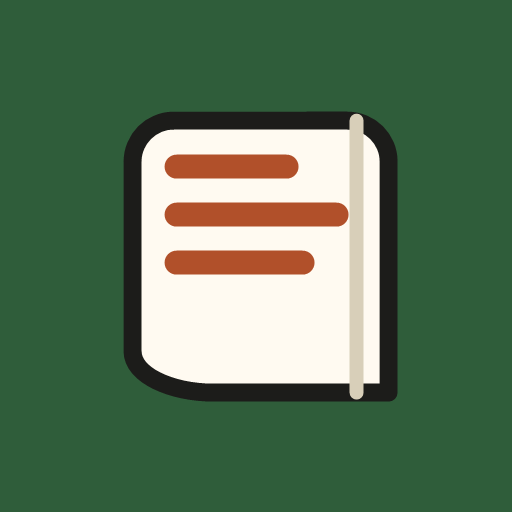
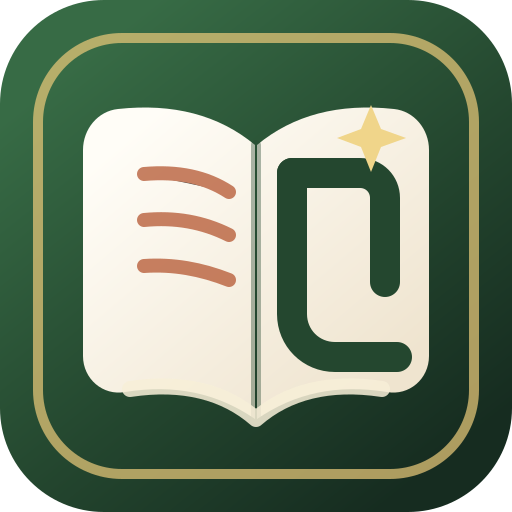
Rename app to Lexiora

diff --git a/src/spanish-book.jsx b/src/spanish-book.jsx
@@ -8341,7 +8341,7 @@ function HomeView({
           <GraduationCap size={18} />
           Plan de estudio
         </div>
-        <h1 className="home-title">Learn Spanish</h1>
+        <h1 className="home-title">Lexiora</h1>
         <p className="home-subtitle">
           Hoy: una leccion clara, 10 palabras, lectura en voz alta, Memoria, y una frase escrita.
         </p>
@@ -9142,7 +9142,7 @@ export default function SpanishBook() {
 
   function buildSyncPayload() {
     return {
-      app: 'Learn Spanish',
+      app: 'Lexiora',
       version: 2,
       exportedAt: new Date().toISOString(),
       savedWords,
@@ -9351,7 +9351,7 @@ export default function SpanishBook() {
           <Menu size={20} />
         </button>
         <div className="mobile-title">
-          <span className="mobile-brand-script">Español</span>
+          <span className="mobile-brand-script">Lexiora</span>
         </div>
         <div className={`study-timer ${isStudyTimerRunning ? 'running' : ''}`} title={studyTimerLabel}>
           <Clock size={14} />
@@ -9421,7 +9421,7 @@ export default function SpanishBook() {
               <X size={15} />
             </button>
             <div className="sync-kicker">Device Sync</div>
-            <h2>Sync your Spanish book across devices</h2>
+            <h2>Sync Lexiora across devices</h2>
             <p>
               Sign in with Google Drive to keep one private study file across your phone, tablet, Boox, and laptop.
             </p>
@@ -9483,8 +9483,8 @@ export default function SpanishBook() {
                 <BookOpen size={18} />
               </div>
               <div className="brand-text">
-                <div className="brand-eyebrow">Un libro de</div>
-                <div className="brand-title">Español</div>
+                <div className="brand-eyebrow">Aprende español</div>
+                <div className="brand-title">Lexiora</div>
               </div>
               <button className="sidebar-close" onClick={() => setSidebarOpen(false)} aria-label="Close menu">
                 <X size={18} />

diff --git a/index.html b/index.html
@@ -5,13 +5,13 @@
     <meta name="viewport" content="width=device-width, initial-scale=1.0" />
     <meta
       name="description"
-      content="A quiet, interactive Spanish reading book with conjugation practice, pronunciation, vocabulary memory, and level filters."
+      content="Lexiora is an interactive Spanish reading book with pronunciation, conjugation practice, vocabulary memory, and level filters."
     />
-    <meta name="theme-color" content="#2f5d3a" />
+    <meta name="theme-color" content="#24472f" />
     <link rel="manifest" href="%BASE_URL%manifest.webmanifest" />
     <link rel="icon" type="image/svg+xml" href="%BASE_URL%icon.svg" />
     <link rel="apple-touch-icon" href="%BASE_URL%icon-192.png" />
-    <title>Learn Spanish</title>
+    <title>Lexiora</title>
   </head>
   <body>
     <div id="root"></div>

diff --git a/src/google-drive-sync.js b/src/google-drive-sync.js
@@ -151,7 +151,7 @@ export function mergeSyncPayloads(localPayload, remotePayload) {
   const newerSettings = localTime >= remoteTime ? localPayload : remotePayload;
   return {
     ...newerSettings,
-    app: 'Learn Spanish',
+    app: 'Lexiora',
     version: 4,
     exportedAt: new Date().toISOString(),
     savedWords: mergeSavedWords(localPayload.savedWords, remotePayload.savedWords),

diff --git a/README.md b/README.md
@@ -1,4 +1,4 @@
-# Learn Spanish
+# Lexiora
 
 An interactive Spanish reading book built with React and Vite. It includes a daily study path, progress map, lesson chapters, stories, poems, a deduplicated songbook, verb practice, text-to-speech pronunciation, spaced-repetition vocabulary, grouped memorization, level filtering, resume reading, saved vocabulary review/export tools, and installable offline support.
 